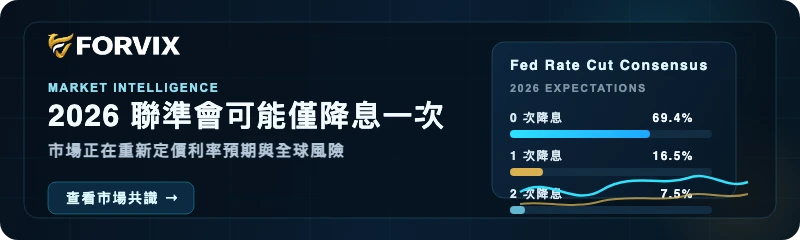
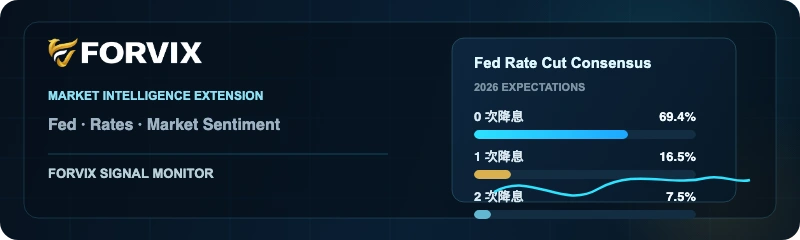
Improve Forvix ad readability

diff --git a/src/components/ads/ads.css b/src/components/ads/ads.css
@@ -32,10 +32,12 @@
 
 .ad-card--visual {
   display: block;
-  width: min(100%, 960px);
+  width: min(100%, 920px);
   margin: 0 auto;
   min-height: 0;
-  background: #071421;
+  background:
+    radial-gradient(circle at 82% 12%, rgba(54, 207, 255, 0.14), transparent 34%),
+    linear-gradient(135deg, #050e19 0%, #071a2a 54%, #0a273c 100%);
 }
 
 .ad-card__image,
@@ -51,9 +53,11 @@
 }
 
 .ad-card--visual .ad-card__image {
-  height: auto;
+  height: clamp(138px, 24vw, 220px);
   min-height: 0;
-  aspect-ratio: 10 / 3;
+  aspect-ratio: auto;
+  border-bottom: 1px solid rgba(91, 214, 240, 0.14);
+  object-position: center;
 }
 
 .ad-card__market-grid {
@@ -95,6 +99,11 @@
   padding: 14px 16px 14px 0;
 }
 
+.ad-card--visual .ad-card__content {
+  gap: 8px;
+  padding: 18px 22px 20px;
+}
+
 .ad-card__provider {
   color: currentColor;
   font-size: 11px;
@@ -110,11 +119,23 @@
   line-height: 1.2;
 }
 
+.ad-card--visual .ad-card__title {
+  font-size: 24px;
+  line-height: 1.18;
+}
+
 .ad-card__description {
   color: currentColor;
   font-size: 13px;
   line-height: 1.35;
   opacity: 0.78;
+}
+
+.ad-card--visual .ad-card__description {
+  max-width: 720px;
+  font-size: 15px;
+  line-height: 1.45;
+  opacity: 0.86;
 }
 
 .ad-card__cta {
@@ -132,13 +153,31 @@
   font-weight: 780;
 }
 
-.ad-card__content--sr-only {
-  position: absolute;
-  width: 1px;
-  height: 1px;
-  overflow: hidden;
-  clip: rect(0, 0, 0, 0);
-  white-space: nowrap;
+.ad-card--visual .ad-card__cta {
+  margin-top: 4px;
+  padding: 8px 12px;
+  font-size: 14px;
+}
+
+@media (min-width: 980px) {
+  .ad-card--visual.ad-card--slot-article-inline {
+    display: grid;
+    grid-template-columns: minmax(0, 1.25fr) minmax(320px, 0.85fr);
+    min-height: 240px;
+  }
+
+  .ad-card--visual.ad-card--slot-article-inline .ad-card__image {
+    height: 100%;
+    min-height: 240px;
+    border-right: 1px solid rgba(91, 214, 240, 0.14);
+    border-bottom: 0;
+    background: #071421;
+    object-fit: contain;
+  }
+
+  .ad-card--visual.ad-card--slot-article-inline .ad-card__content {
+    padding: 24px;
+  }
 }
 
 .ad-carousel {
@@ -170,20 +209,12 @@
   }
 
   .ad-card--visual .ad-card__image {
-    aspect-ratio: 10 / 3;
-  }
-
-  .ad-card--visual .ad-card__content--sr-only {
-    position: static;
-    width: auto;
-    height: auto;
-    overflow: visible;
-    clip: auto;
-    white-space: normal;
+    height: 132px;
   }
 
   .ad-card--visual .ad-card__content {
-    padding: 13px 14px 14px;
+    gap: 7px;
+    padding: 14px 14px 16px;
   }
 
   .ad-card--visual .ad-card__provider {
@@ -198,13 +229,26 @@
     font-size: 17px;
   }
 
+  .ad-card--visual .ad-card__title {
+    font-size: 20px;
+  }
+
   .ad-card__description {
     font-size: 13px;
+  }
+
+  .ad-card--visual .ad-card__description {
+    font-size: 14px;
   }
 
   .ad-card__cta {
     padding: 6px 9px;
     font-size: 12px;
+  }
+
+  .ad-card--visual .ad-card__cta {
+    padding: 7px 10px;
+    font-size: 13px;
   }
 }
 

diff --git a/src/components/ads/AdCard.tsx b/src/components/ads/AdCard.tsx
@@ -26,6 +26,7 @@ export default defineComponent({
           class: [
             "ad-card",
             `ad-card--${props.ad.provider}`,
+            `ad-card--slot-${props.slotName}`,
             {
               "ad-card--compact": props.compact,
               "ad-card--visual": Boolean(props.ad.imageUrl)
@@ -54,7 +55,7 @@ export default defineComponent({
                 h("span"),
                 h("span")
               ]),
-          h("div", { class: ["ad-card__content", { "ad-card__content--sr-only": Boolean(props.ad.imageUrl) }] }, [
+          h("div", { class: "ad-card__content" }, [
             h("span", { class: "ad-card__provider" }, props.ad.provider),
             h("strong", { class: "ad-card__title" }, props.ad.title),
             props.ad.description ? h("span", { class: "ad-card__description" }, props.ad.description) : null,
